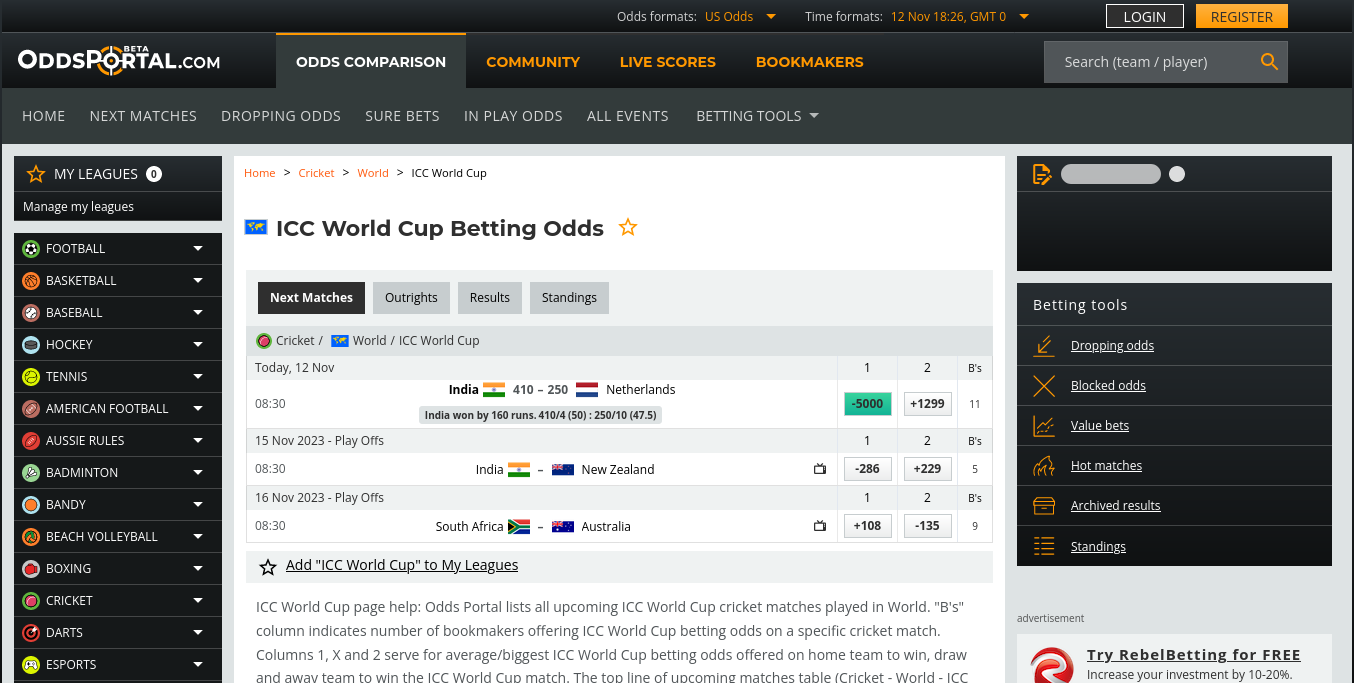
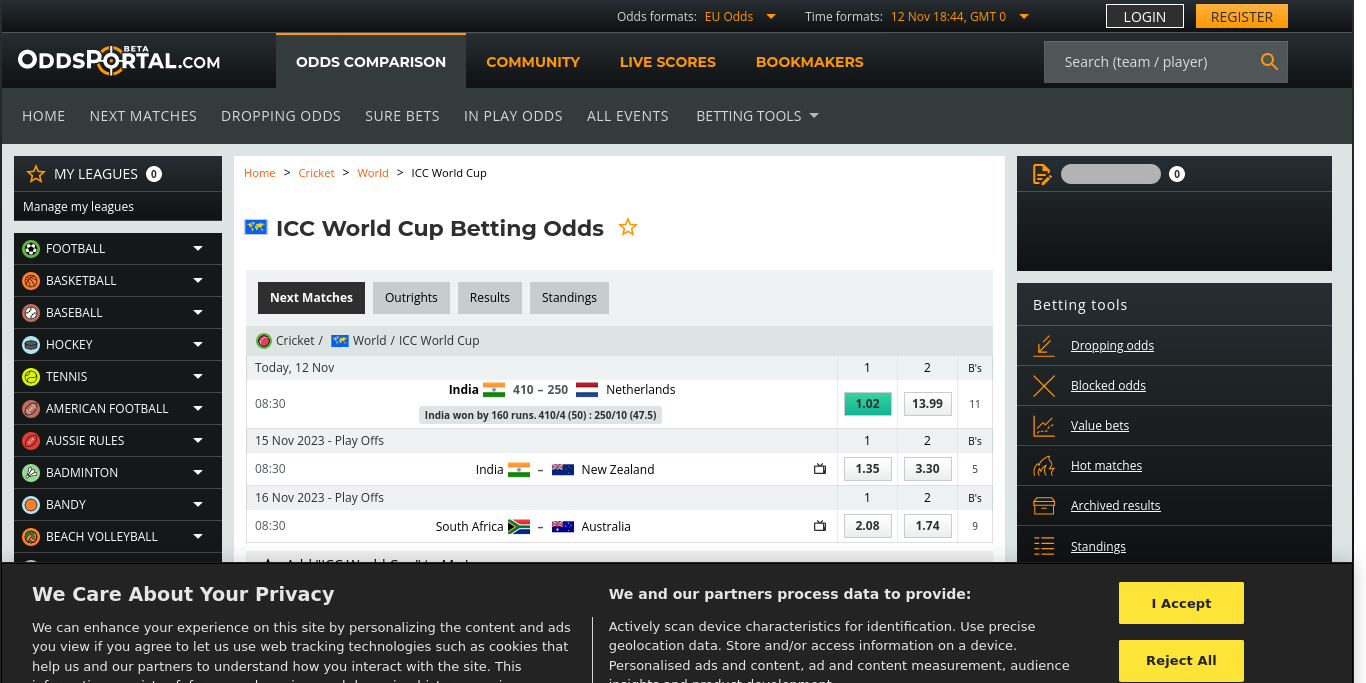
Update Data Sun Nov 12 18:45:11 UTC 2023

diff --git a/src/nonview/data/TEAM1_ID_TO_TEAM2_ID_TO_ODDS_PAIR.js b/src/nonview/data/TEAM1_ID_TO_TEAM2_ID_TO_ODDS_PAIR.js
@@ -1,13 +1,13 @@
 // Auto Generated by UpdateTeam1IDToTeam2IDToOddsPair
 // https://www.oddsportal.com/cricket/world/icc-world-cup/
-// 2023-11-12 23:56:46 +0000
+// 2023-11-13 00:14:55 +0000
 
 import { TEAM } from "../core/Team.js";
 
 export const TEAM1_ID_TO_TEAM2_ID_TO_ODDS_PAIR = {
   [TEAM.IND.id]: {
     [TEAM.NLD.id]: [1.02, 13.99],
-    [TEAM.NZL.id]: [1.35, 3.29],
+    [TEAM.NZL.id]: [1.35, 3.30],
   },
   [TEAM.AUS.id]: {
     [TEAM.ZAF.id]: [1.74, 2.08],

diff --git a/src/nonview/constants/VERSION.js b/src/nonview/constants/VERSION.js
@@ -1,4 +1,4 @@
 // Auto-generated by javascript_version.py
-export const VERSION_UT = 1699813612;
+export const VERSION_UT = 1699814711;
 export const VERSION_DATETIME = new Date(VERSION_UT * 1_000);
 export const LAST_COMMIT_MESSAGE = "Updated 📊Data";

diff --git a/src/nonview/data/ODI_ID_TO_WINNER.js b/src/nonview/data/ODI_ID_TO_WINNER.js
@@ -1,6 +1,6 @@
 // Auto Generated by UpdateODIIDToWinner
 // https://www.cricbuzz.com/cricket-series/6732/icc-cricket-world-cup-2023/matches
-// 2023-11-12 23:56:28 +0000
+// 2023-11-13 00:14:41 +0000
 
 import { TEAM } from "../core/Team.js";
 

diff --git a/src/nonview/data/POINTS_TABLE.js b/src/nonview/data/POINTS_TABLE.js
@@ -1,6 +1,6 @@
 // Auto Generated by UpdatePointsTable
 // https://www.cricketworldcup.com/standings
-// 2023-11-12 23:56:40 +0000
+// 2023-11-13 00:14:49 +0000
 
 import { TEAM } from "../core/Team.js";
 
